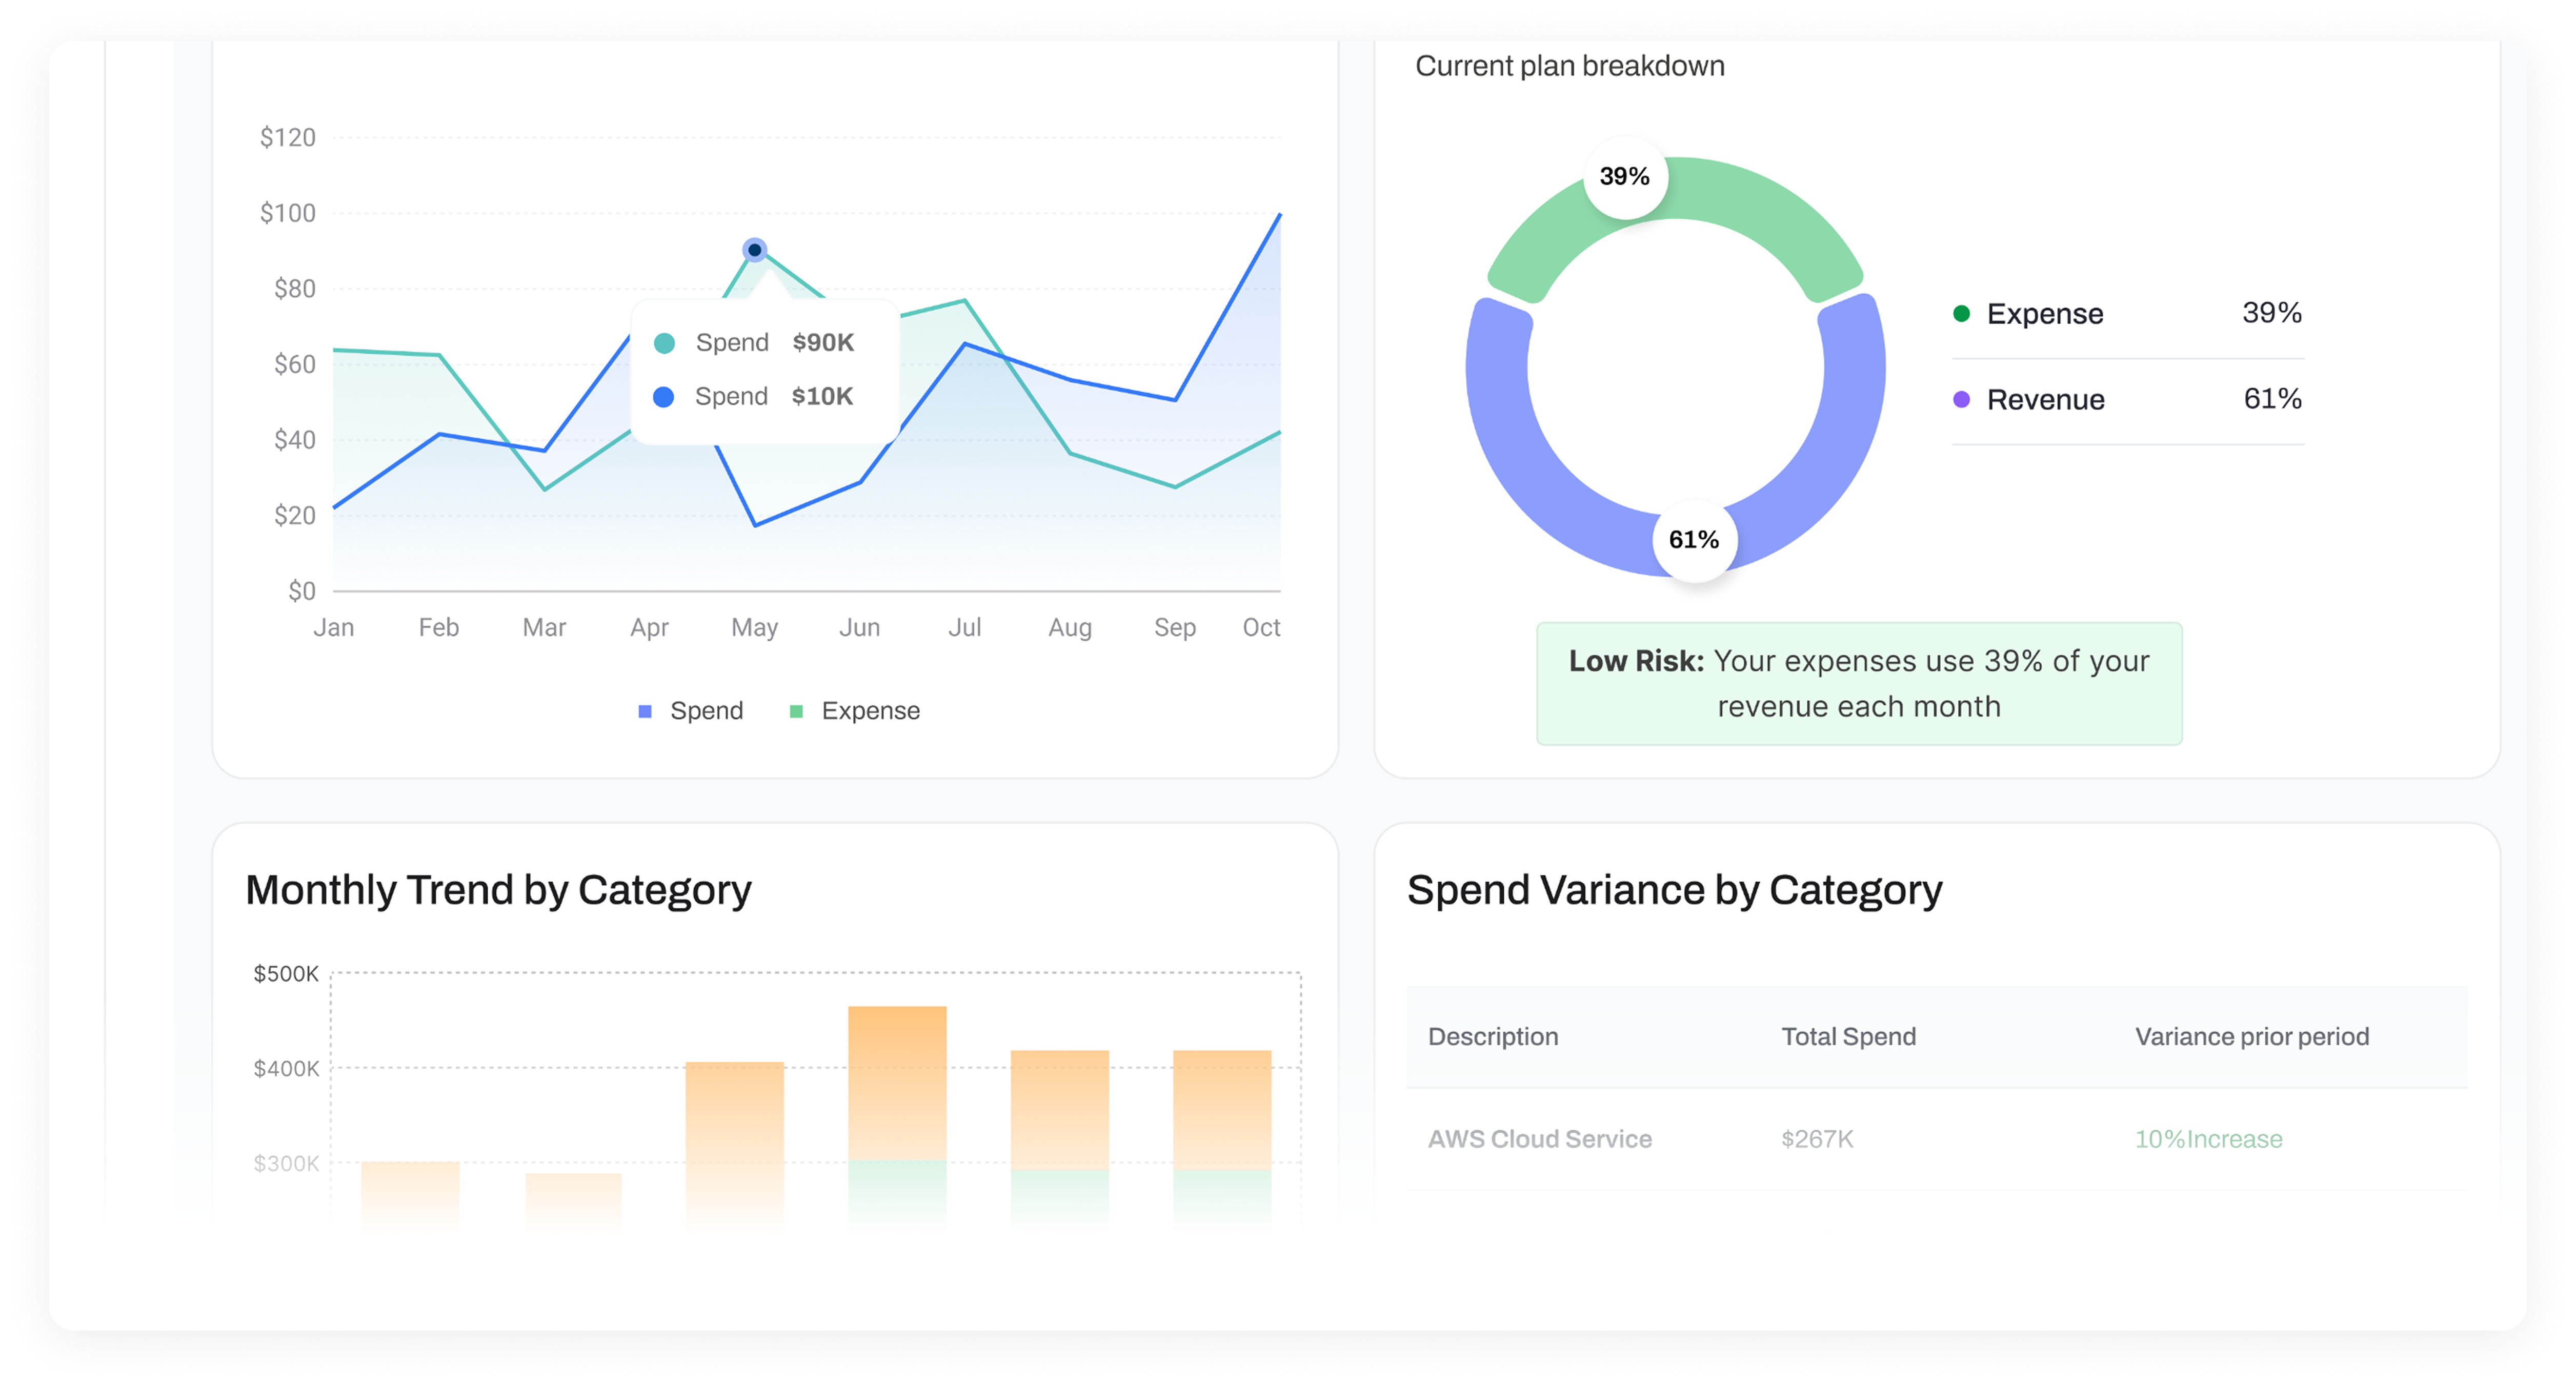
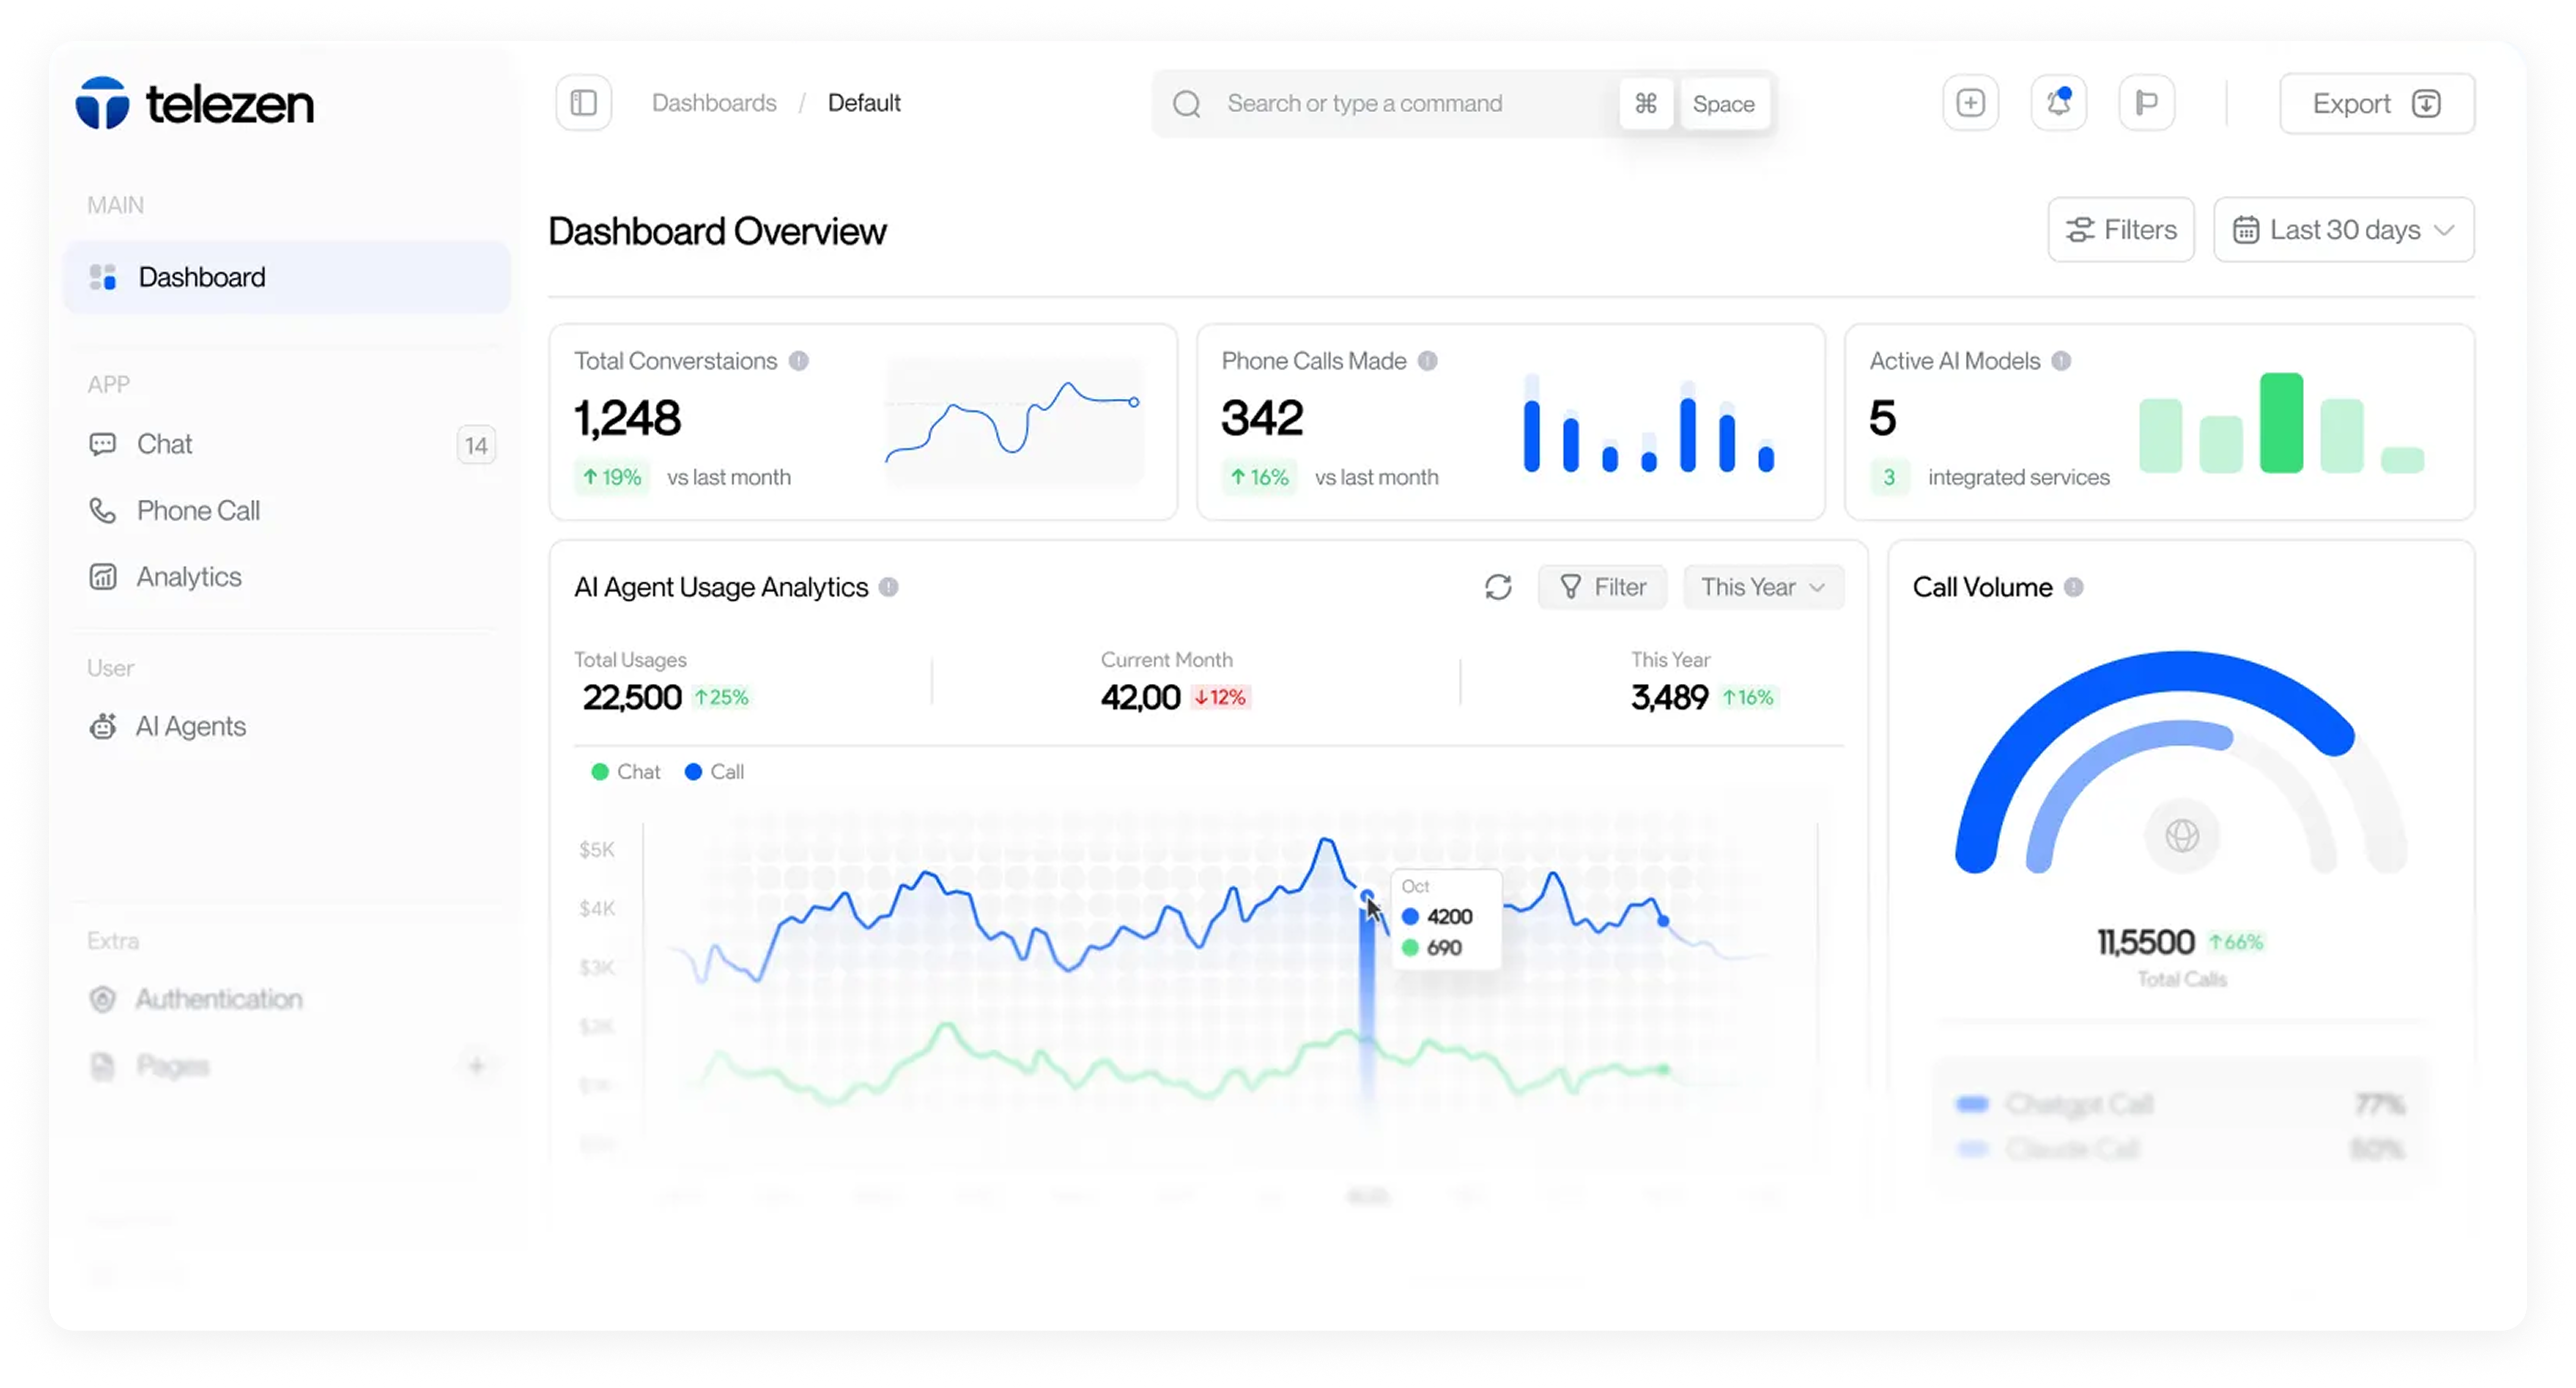
all done

diff --git a/components/auth/mfa/mfa-method-select.tsx b/components/auth/mfa/mfa-method-select.tsx
@@ -1,60 +1,0 @@
-"use client";
-
-import { Mail, Smartphone } from "lucide-react";
-import { useAuthModalStore } from "@/store/auth-modal.store";
-
-export function MfaMethodSelect() {
-  const { setStep
-  } = useAuthModalStore();
-
-  const handleEmail = async () => {
-    // TODO: API Call
-    // await sendEmailOtp();
-
-    setStep("otp");
-  };
-
-  const handleAuthenticator = () => {
-    setStep("authenticator");
-  };
-
-  return (
-    <div className="w-[480px]">
-      <h2 className="text-[28px] font-semibold text-[#151513]">
-        Two-factor authentication
-      </h2>
-
-      <p className="mt-3 text-[#666]">
-        Choose how you want to receive your verification code.
-      </p>
-
-      <div className="mt-8 space-y-4">
-        <button
-          onClick={handleEmail}
-          className="flex w-full items-center gap-4 rounded-xl border border-[#E5E7EB] p-5 transition hover:border-[#2563EB]"
-        >
-          <Mail size={24} />
-          <div className="text-left">
-            <p className="font-medium">Email Verification</p>
-            <p className="text-sm text-[#666]">
-              Receive OTP in your email.
-            </p>
-          </div>
-        </button>
-
-        <button
-          onClick={handleAuthenticator}
-          className="flex w-full items-center gap-4 rounded-xl border border-[#E5E7EB] p-5 transition hover:border-[#2563EB]"
-        >
-          <Smartphone size={24} />
-          <div className="text-left">
-            <p className="font-medium">Authenticator App</p>
-            <p className="text-sm text-[#666]">
-              Google Authenticator / Microsoft Authenticator
-            </p>
-          </div>
-        </button>
-      </div>
-    </div>
-  );
-}

diff --git a/components/landing/pricing/OverView.tsx b/components/landing/pricing/OverView.tsx
@@ -4,17 +4,20 @@ import { useRef } from "react";
 import Image from "next/image";
 import { motion, useScroll, useTransform } from "framer-motion";
 
-const CARD_HEIGHT = 500;
+const CARD_HEIGHT = 600;
 const GAP = 20;
 
 export default function OverView() {
     const containerRef = useRef<HTMLDivElement>(null);
 
     const images = [
-        "/images/imageoverview.png",
-        "/images/imageoverview.png",
-        "/images/imageoverview.png",
-        "/images/imageoverview.png",
+        "/images/finance.png",
+        "/images/execuitive.png",
+
+        "/images/operational.png",
+
+
+
     ];
 
     const { scrollYProgress } = useScroll({
@@ -23,42 +26,36 @@ export default function OverView() {
     });
 
     // Card 1
-    const y1 = useTransform(scrollYProgress, [0, 1], [0, 0]);
+    const y1 = useTransform(scrollYProgress, [0, 1], [90, 95]);
 
     // Card 2
-    const y2 = useTransform(scrollYProgress, [0, 0.35], [CARD_HEIGHT + GAP, 0]);
+    const y2 = useTransform(scrollYProgress, [0, 0.35], [CARD_HEIGHT + GAP + 100, 100]);
 
     // Card 3
     const y3 = useTransform(
         scrollYProgress,
         [0.35, 0.7],
-        [(CARD_HEIGHT + GAP) * 2, 0]
+        [(CARD_HEIGHT + GAP) * 2 + 100, 100]
     );
 
     // Card 4
-    const y4 = useTransform(
-        scrollYProgress,
-        [0.7, 1],
-        [(CARD_HEIGHT + GAP) * 3, 0]
-    );
+
 
     const scale1 = useTransform(scrollYProgress, [0.18, 0.35], [1, 0.95]);
-
     const scale2 = useTransform(scrollYProgress, [0.5, 0.7], [1, 0.95]);
-
     const scale3 = useTransform(scrollYProgress, [0.82, 1], [1, 0.95]);
 
-    const positions = [y1, y2, y3, y4];
+    const positions = [y1, y2, y3];
     const scales = [scale1, scale2, scale3, 1];
 
     return (
         <section
             ref={containerRef}
-            className="relative "
-            style={{ height: `${images.length * 120}vh` }}
+            className="relative"
+            style={{ height: `${images.length * 90}vh` }}
         >
-            <div className="sticky top-0 flex h-screen max-w-[1600px] px-5 sm:px-10 lg:px-[140px] mx-auto py-10 lg:py-20">
-                <div className="relative h-[800px] w-full ">
+            <div className="sticky top-30 flex max-w-[1600px] px-5 sm:px-10 lg:px-[140px] mx-auto ">
+                <div className="relative h-[800px] w-full">
                     {images.map((image, index) => (
                         <motion.div
                             key={index}
@@ -76,7 +73,7 @@ export default function OverView() {
                                 width={1000}
                                 height={1000}
                                 priority={index === 0}
-                                className="object-center flex justify-center items-center mx-auto "
+                                className="object-center flex justify-center items-center mx-auto w-auto lg:h-[600px] h-[300px] max-w-full max-h-full"
                             />
                         </motion.div>
                     ))}

diff --git a/components/user-dashboard/manage-subscription/SubscriptionManagement.tsx b/components/user-dashboard/manage-subscription/SubscriptionManagement.tsx
@@ -8,7 +8,7 @@ import PricingSection from './pricing/SubscriptionSection';
 import BillingHistory from './BillingHistory';
 import CurrentPlan from './CurrentPlan';
 export default function SubscriptionManagement() {
-    const [currentPlan, setCurrentPlan] = useState(true);
+    const [currentPlan, setCurrentPlan] = useState(false);
     const router = useRouter();
     const searchParams = useSearchParams();
     const triggerClass =